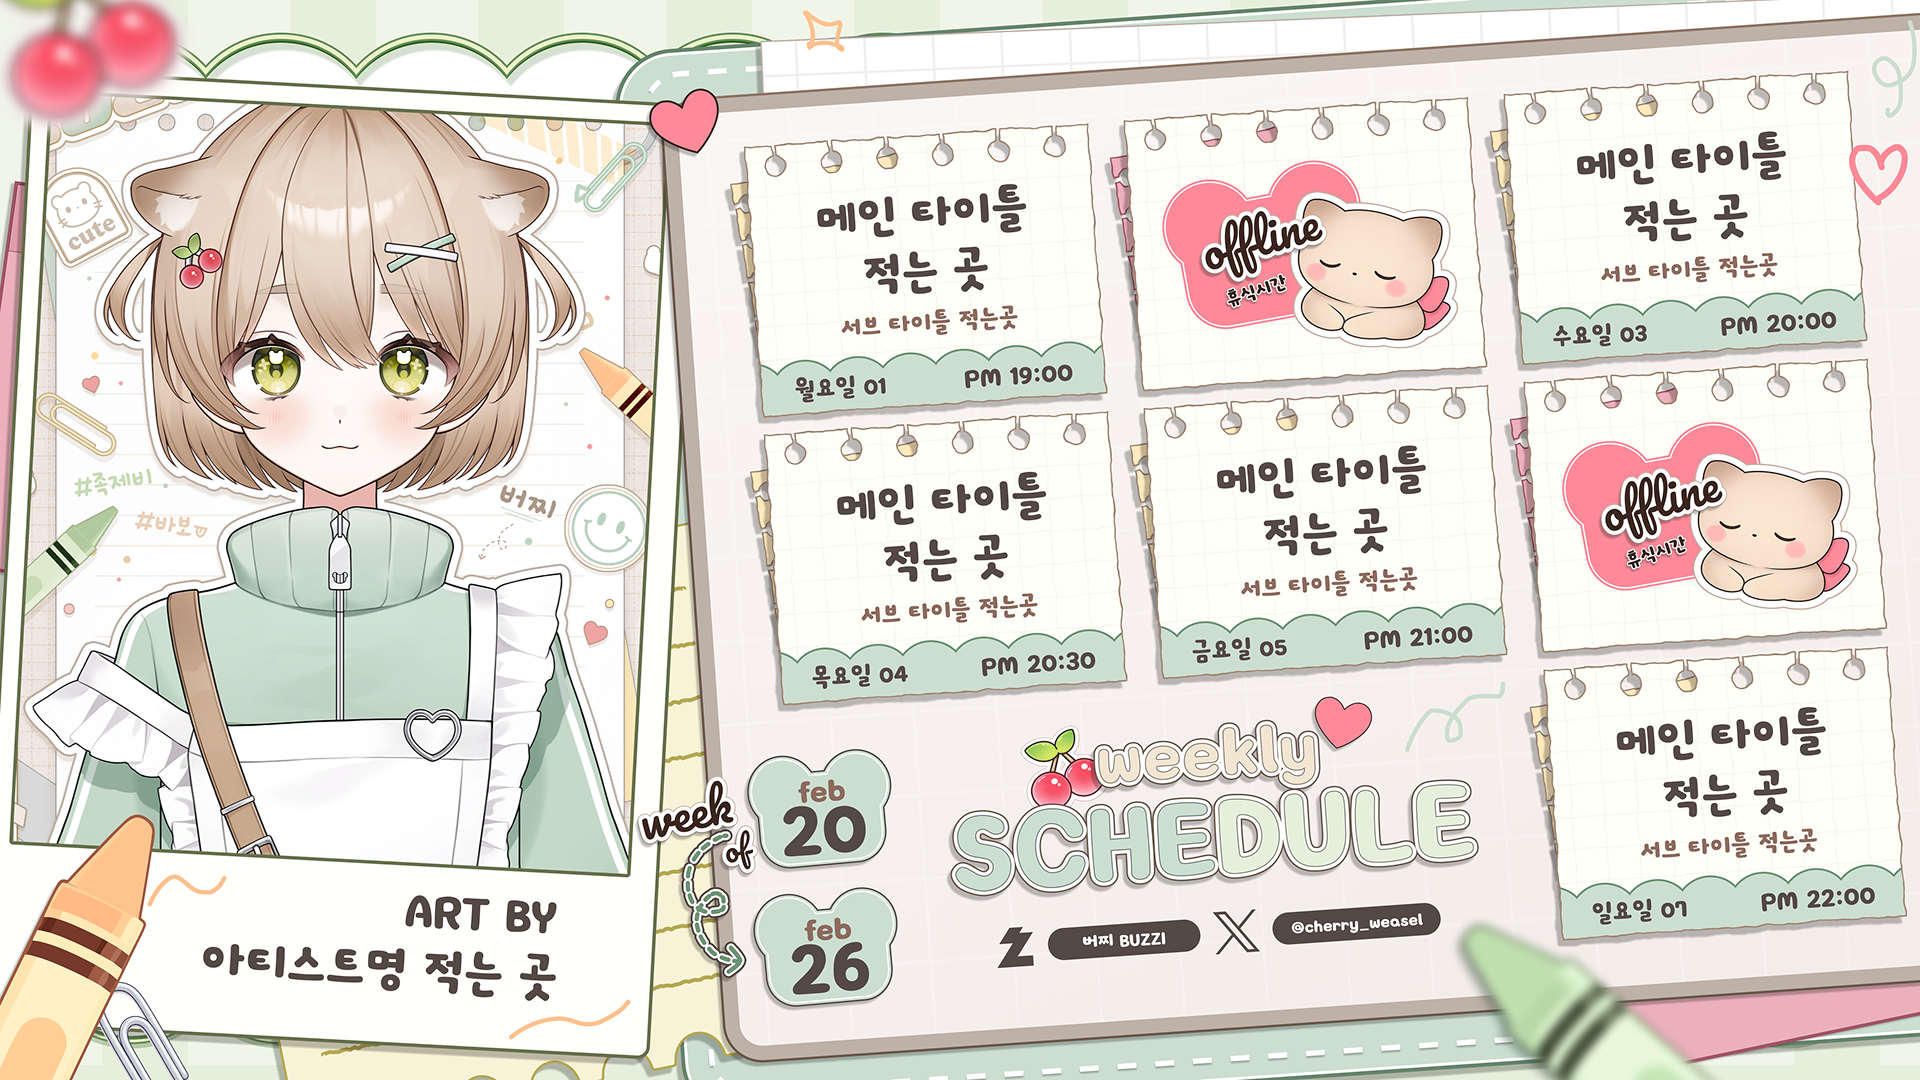
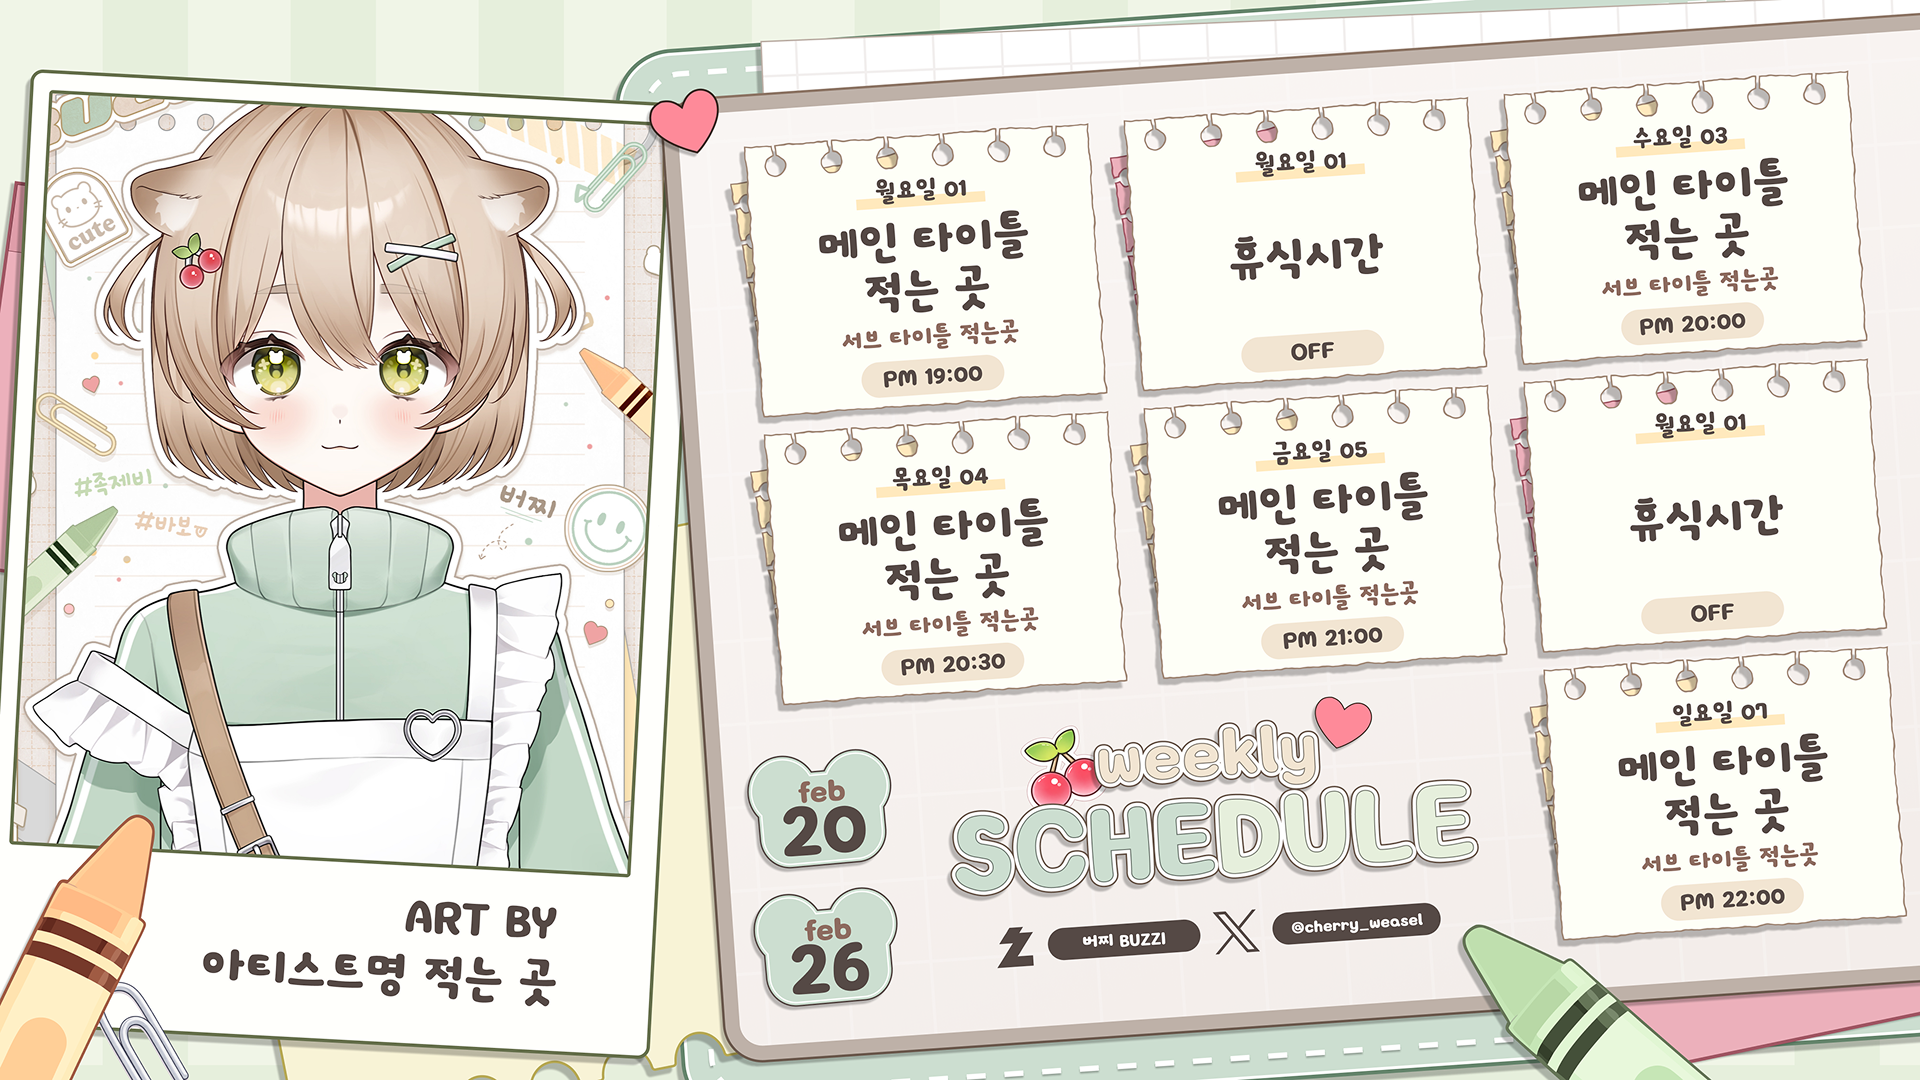
Feat: 부분 수정

diff --git a/src/app/(root)/time-table/39fc5668-36d2-4031-9ea5-6cae8b5f2cc6/_components/TimeTableCell.tsx b/src/app/(root)/time-table/39fc5668-36d2-4031-9ea5-6cae8b5f2cc6/_components/TimeTableCell.tsx
@@ -96,10 +96,10 @@ const CardStreamingDateAndDay = ({
         height: 100,
         lineHeight: 1,
         fontSize: 64,
-        left: 60,
-        top: 470,
+        left: 260,
+        top: 72,
       }}
-      className=" absolute flex justify-center items-center"
+      className=" absolute flex justify-center items-center "
     >
       {weekdays[weekdayOption][day].toUpperCase()}요일 {padZero(date)}
     </p>
@@ -120,8 +120,8 @@ const CardStreamingTime = ({
         height: 100,
         lineHeight: 1,
         fontSize: 70,
-        left: 436,
-        top: 468,
+        left: 264,
+        top: 460,
       }}
       className=" absolute flex justify-center items-center"
     >
@@ -136,15 +136,16 @@ const CardMainTitle = ({ currentTheme, content, day }: CardMainTitleProps) => {
       style={{
         height: 240,
         width: 560,
-        top: 112,
+        top: 160,
         left: 132,
       }}
-      className="absolute flex justify-center items-center shrink-0 "
+      className="absolute flex justify-center items-center shrink-0"
     >
       <AutoResizeText
         style={{
           fontFamily: COMP_FONTS.MAIN_TITLE,
           color: COMP_COLORS.MAIN_TITLE,
+          lineHeight: 0.9,
         }}
         className="leading-none text-center"
         multiline={true}
@@ -162,7 +163,7 @@ const CardSubTitle = ({ content, day }: CardSubTitleProps) => {
       style={{
         width: 560,
         height: 80,
-        top: 360,
+        top: 388,
         left: 132,
       }}
       className="absolute flex justify-center items-center"
@@ -172,7 +173,6 @@ const CardSubTitle = ({ content, day }: CardSubTitleProps) => {
           fontFamily: COMP_FONTS.SUB_TITLE,
           color: COMP_COLORS.SUB_TITLE,
           fontWeight: 500,
-          letterSpacing: -2,
         }}
         className="leading-none text-center w-full"
         maxFontSize={MAX_FONT_SIZES.SUB_TITLE}
@@ -255,7 +255,15 @@ const TimeTableCell: React.FC<TimeTableCellProps> = ({
   return (
     <>
       {time.isOffline ? (
-        <OfflineCard day={time.day} />
+        <div
+          style={{ ...CARD_SIZES.ONLINE }}
+          key={time.day}
+          className="relative flex justify-center"
+        >
+          <CardStreamingDateAndDay day={time.day} date={weekDate.getDate()} />
+
+          <OfflineCard day={time.day} />
+        </div>
       ) : (
         <div
           style={{ ...CARD_SIZES.ONLINE }}

diff --git a/src/app/(root)/time-table/39fc5668-36d2-4031-9ea5-6cae8b5f2cc6/_components/TimeTableArtist.tsx b/src/app/(root)/time-table/39fc5668-36d2-4031-9ea5-6cae8b5f2cc6/_components/TimeTableArtist.tsx
@@ -42,13 +42,13 @@ const TimeTableArtist = ({
         style={{
           position: 'absolute',
           height: 160,
-          width: 900,
+          width: 800,
           zIndex: 20,
           top: 1936,
-          left: 338,
+          left: 352,
           rotate: '3.1deg',
         }}
-        className="flex justify-center items-center"
+        className="flex justify-end items-center "
       >
         <AutoResizeText
           style={{
@@ -56,7 +56,7 @@ const TimeTableArtist = ({
             color: COMP_COLORS.ARTIST,
             fontFamily: COMP_FONTS.ARTIST,
           }}
-          className="text-center"
+          className="text-right"
           maxFontSize={MAX_FONT_SIZES.ARTIST}
         >
           {profileText ? profileText : profileTextPlaceholder}
